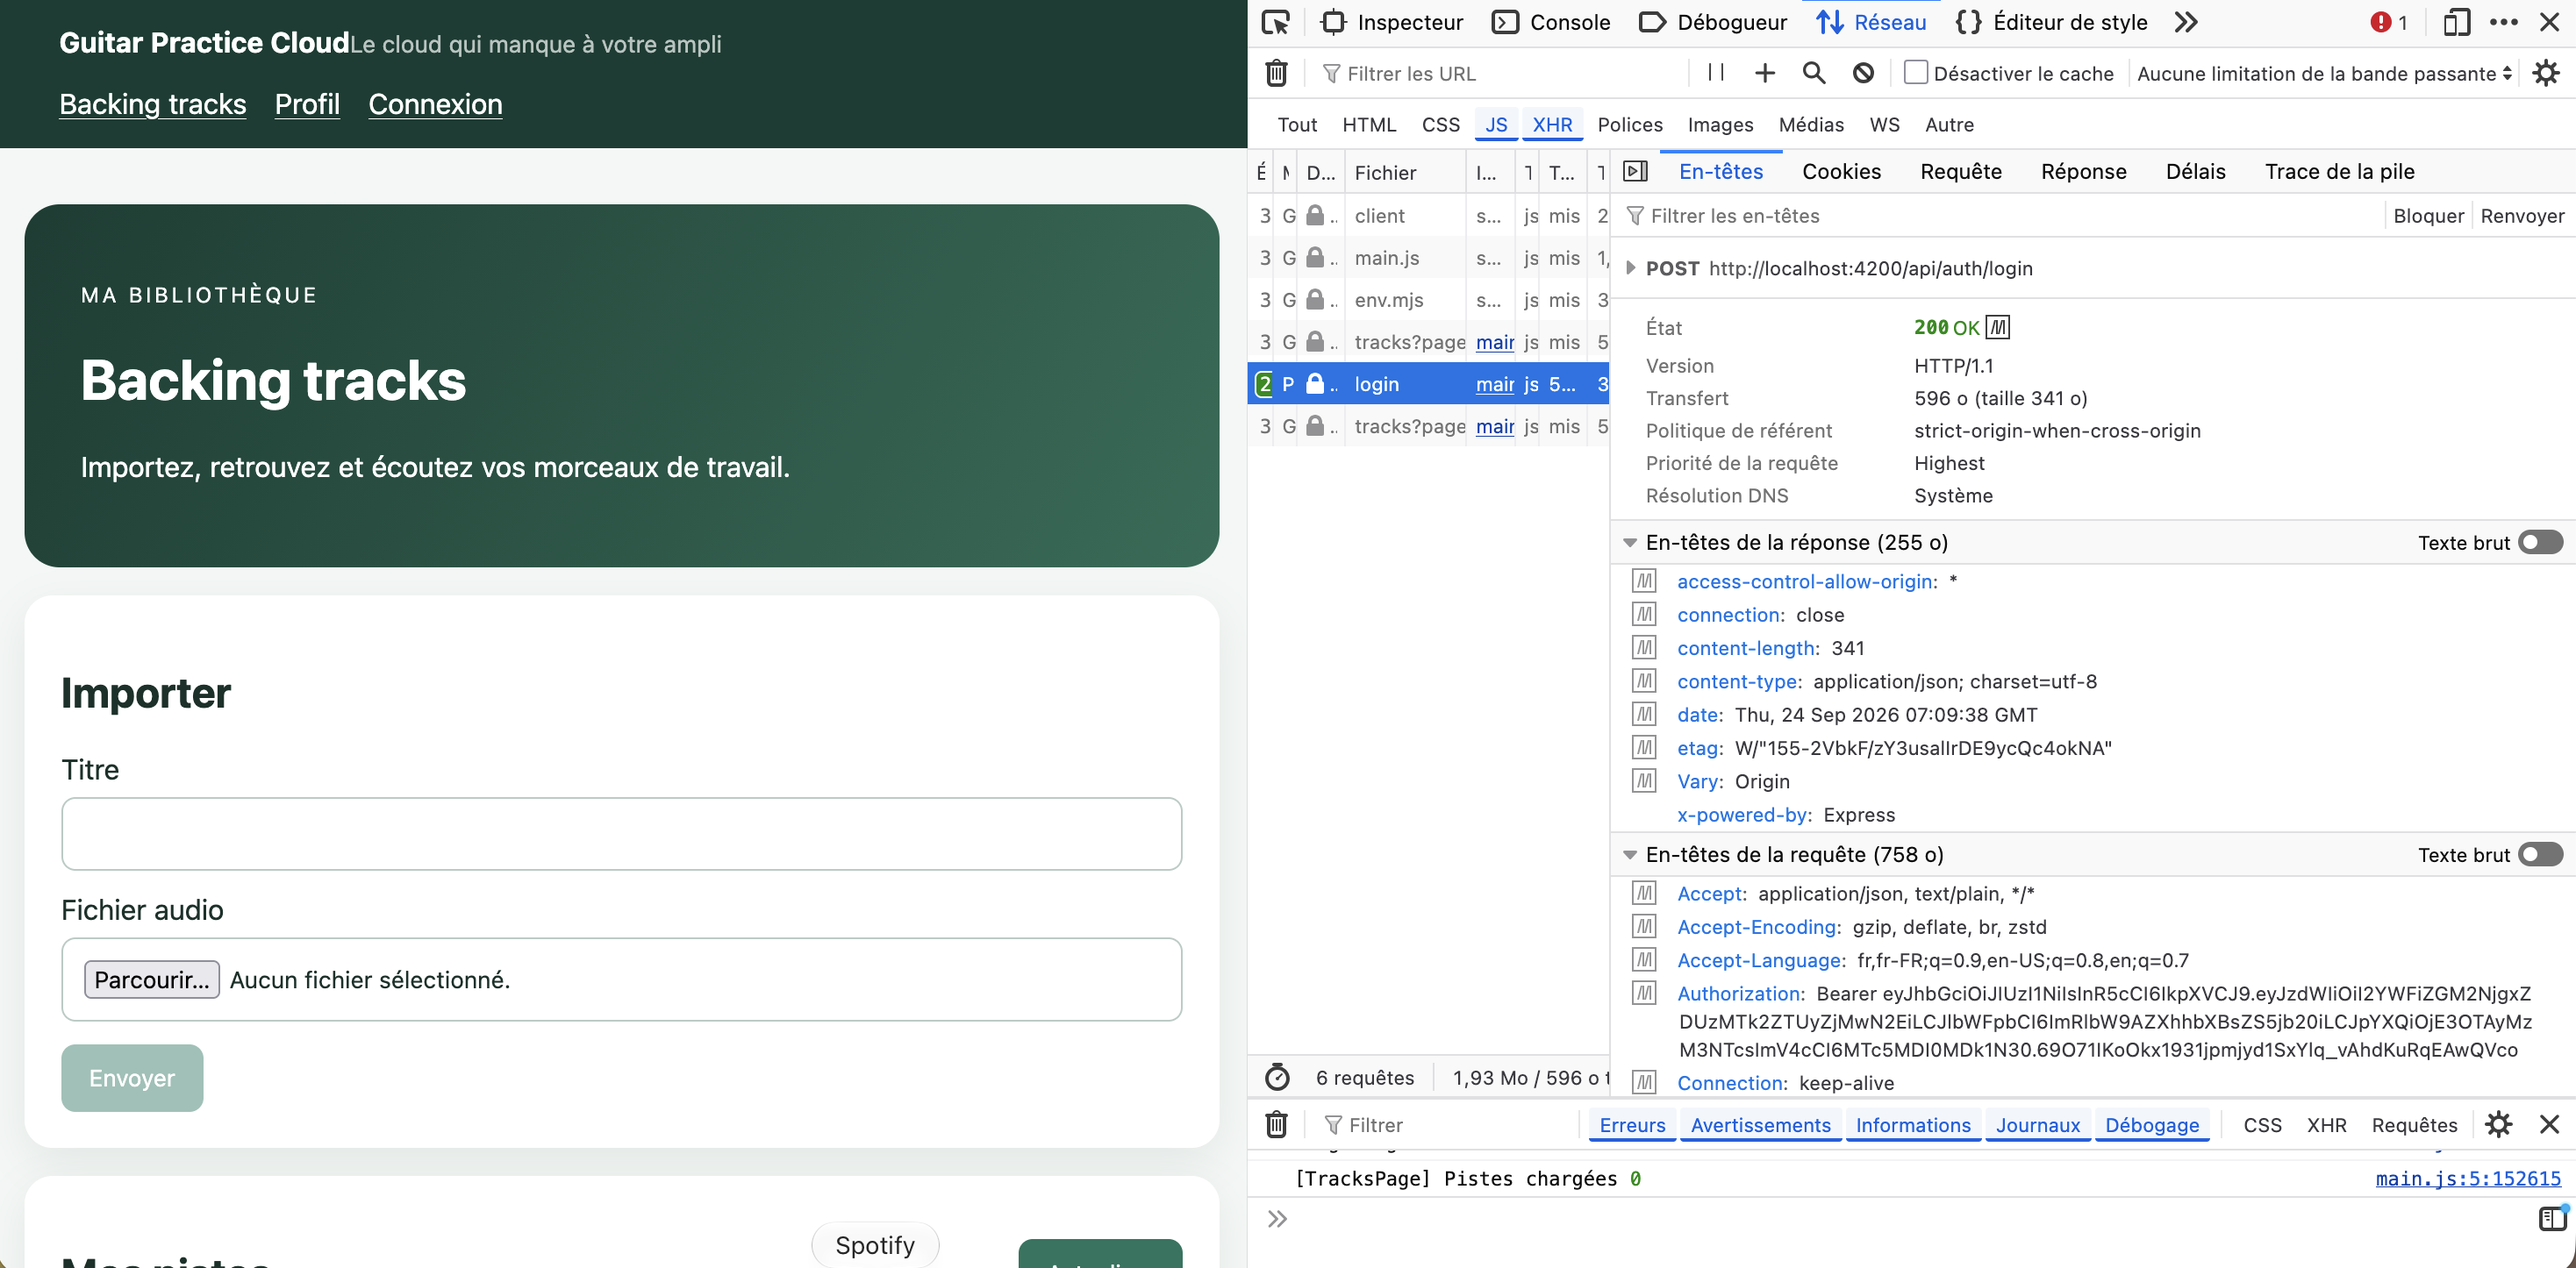
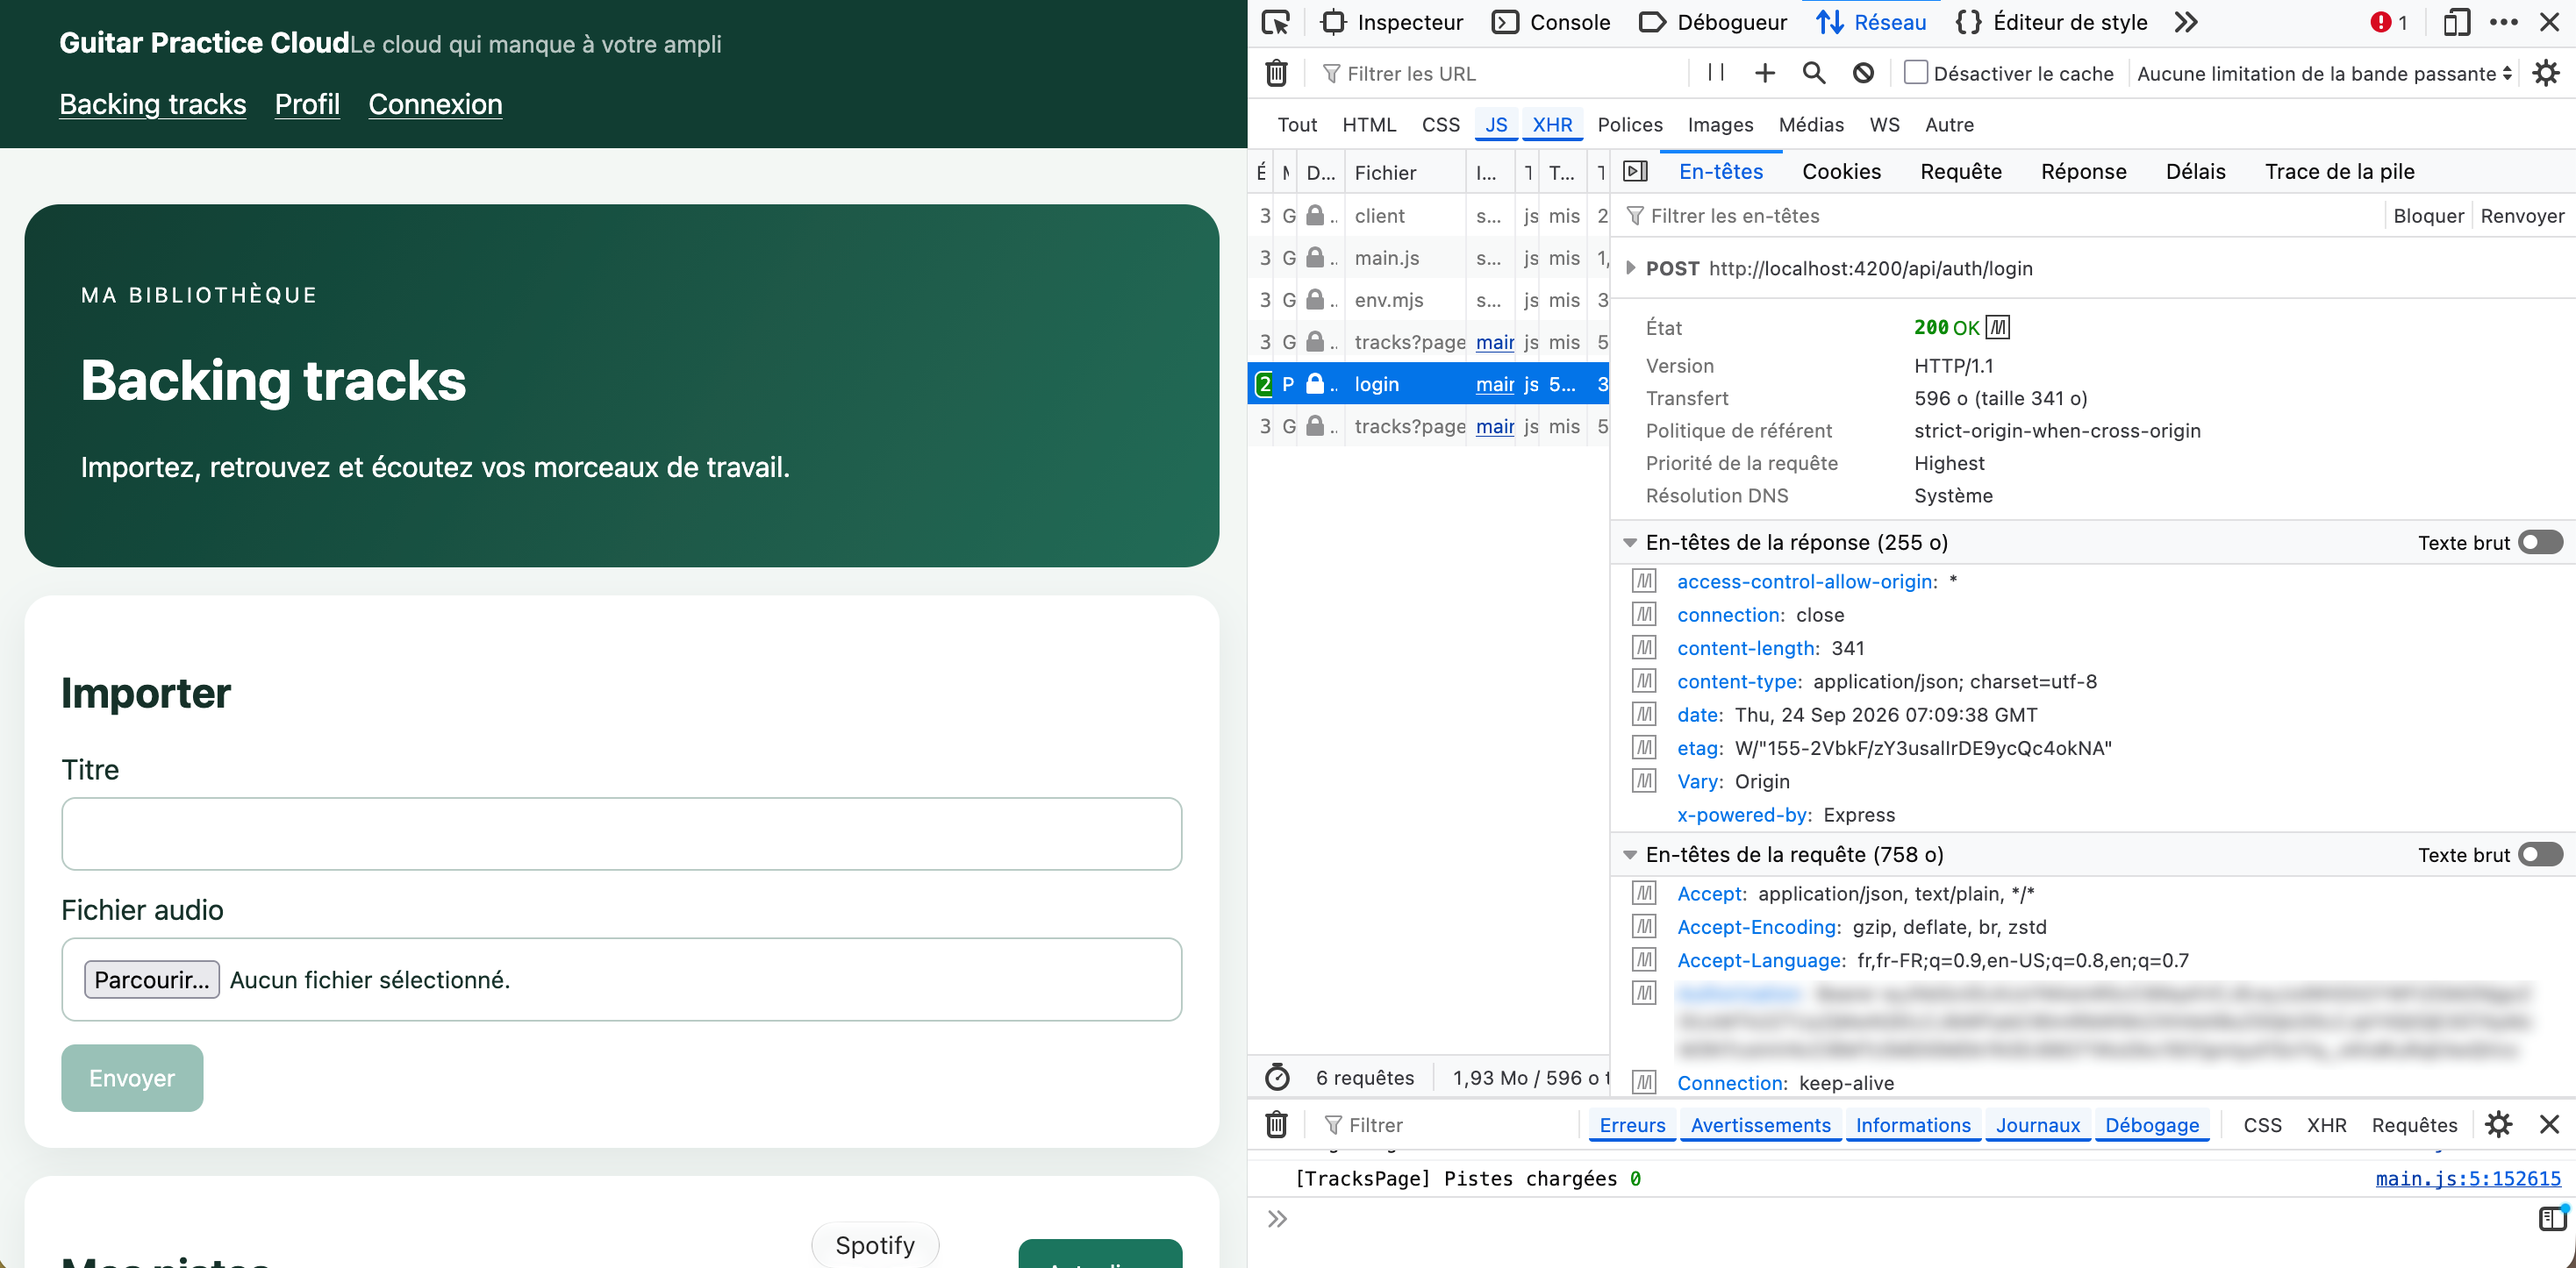
tp1-mission1: add 401 handling and logout button; docs: complete Mission 1 AI report

diff --git a/frontend-starter/src/app/components/app/app.ts b/frontend-starter/src/app/components/app/app.ts
@@ -1,10 +1,38 @@
-import { Component } from '@angular/core';
-import { RouterLink, RouterOutlet } from '@angular/router';
+import { Component, inject, OnInit } from '@angular/core';
+import { Router, RouterLink, RouterOutlet } from '@angular/router';
+import { AuthService } from '../../shared/services/auth.service';
+
+//composant racine: affiche le header (avec état de connexion) et la page active grace à router-outlet
 
 @Component({
+
   selector: 'app-root',
   imports: [RouterLink, RouterOutlet],
   templateUrl: './app.html',
   styleUrl: './app.css',
+  
 })
-export class AppComponent {}
+
+export class AppComponent implements OnInit {
+
+  readonly auth = inject(AuthService);
+  private readonly router = inject(Router);
+
+  //au démarrage de l'app si un token existe déjà (localStorage) mais que currentUser
+  //n'est pas encore chargé (ex: après un F5) on recharge le profil pour l'afficher.
+  
+  ngOnInit(): void {
+
+    if (this.auth.token() && !this.auth.currentUser()) {
+      this.auth.profile().subscribe({ error: () => this.auth.logout() });
+    }
+
+  }
+
+  logout(): void {
+
+    this.auth.logout();
+    void this.router.navigateByUrl('/login');
+  }
+
+}

diff --git a/frontend-starter/src/app/components/app/app.html b/frontend-starter/src/app/components/app/app.html
@@ -6,7 +6,18 @@
   <nav aria-label="Navigation principale">
     <a routerLink="/tracks">Backing tracks</a>
     <a routerLink="/profile">Profil</a>
-    <a routerLink="/login">Connexion</a>
+
+   <!-- basé sur le token (dispo direct) pas currentUser (dispo seulement après l'appel de profile()) -->
+    
+   @if (auth.token()) {
+
+      <button type="button" (click)="logout()">Déconnexion</button>
+    } 
+    
+    @else {
+      <a routerLink="/login">Connexion</a>
+    }
+    
   </nav>
 </header>
 

diff --git a/RAPPORT_IA_MODELE.md b/RAPPORT_IA_MODELE.md
@@ -27,3 +27,59 @@ On sait maintenant expliquer : où se trouve quoi dans le projet Angular, et le 
 
 ## Mission 1 — Connexion et profil
 
+La majorité du code était déjà là grâce au starter. On a comparé chaque point de la checklist du sujet avec le code existant pour voir ce qui manquait vraiment.
+
+Deux choses manquaient. D'abord la gestion du 401 : si le token expire ou devient invalide, rien ne redirigeait vers /login. On a codé ça dans l'intercepteur, avec un catchError qui détecte le statut 401 et déclenche la déconnexion + la redirection.
+
+Ensuite, en testant l'appli à la main, on s'est rendu compte qu'il n'y avait pas de bouton de déconnexion dans le header, alors que la fonction logout() existait déjà dans le service. On l'a ajouté dans app.ts et app.html.
+
+On a ensuite testé un par un tous les points du sujet et pris les différentes captures d'écran aux étapes de test.
+
+Formulaires et validations : testé avec un formulaire vide sur /register, le message "Nom, email et mot de passe de 8 caractères requis" s'affiche correctement.
+
+#### Test de création avec formulaire vide 
+![Validation formulaire](./docs/register-error.png)
+
+Connexion refusée : testé avec un mauvais mot de passe, message "Identifiants incorrects" affiché et requête en 401 dans Network.
+
+#### Connexion avec un mauvais mot de passe
+![Connexion refusée](./docs/login-error.png)
+
+Token jamais loggé : vérifié la console après connexion, rien qui affiche le token en clair.
+
+#### Vérification qu'aucun token n'apparaît dans la console
+![Console sans token](./docs/console-no-token.png)
+
+Chargement du profil : la requête GET /api/users/me renvoie les données et elles s'affichent correctement sur la page.
+
+#### Chargement du profil utilisateur
+![Chargement profil](./docs/profile-load.png)
+
+Modification du nom : la requête PUT /api/users/me passe bien et le nouveau nom s'affiche immédiatement.
+
+#### Modification et enregistrement du nom
+![Modification du nom](./docs/profile-update.png)
+
+Déconnexion : en testant, on a découvert que le bouton n'existait pas du tout dans le header. Une fois ajouté, on a aussi remarqué qu'après un F5 on avait l'air déconnecté alors que le token était toujours valide. Corrigé en basant l'affichage sur le token plutôt que sur l'objet utilisateur complet.
+
+#### Ajout du bouton de déconnexion (manquant à l'origine)
+![Bouton déconnexion visible](./docs/logout-1-avant.png)
+
+Une fois le bouton testé, la redirection vers /login fonctionne et le token disparaît bien du localStorage.
+
+#### Déconnexion effective (redirection + token supprimé)
+![Déconnexion effective](./docs/logout-preuve.png)
+
+Gestion du 401 : en cassant volontairement le token dans le localStorage puis en rechargeant la page, la requête vers /api/users/me échoue en 401 et l'application redirige automatiquement vers /login.
+
+#### Token invalide : détection du 401 et redirection automatique
+![Gestion du 401](./docs/401-handling.png)
+
+ Détail intéressant appris à cette dernière étape : modifier le token directement dans le localStorage ne suffit pas, rien ne se passe tant qu'on ne recharge pas la page. 
+ Le Signal qui garde le token en mémoire ne se relit pas tout seul quand localStorage change pendant que l'app tourne.
+
+Ça amène justement à la différence entre les deux : un Signal est réactif, dès qu'il change l'interface se met à jour toute seule, mais il est perdu à chaque rechargement de page. 
+
+Le localStorage lui persiste sur le disque et survit au refresh, mais rien ne prévient l'application quand sa valeur change. Le token utilise les deux en même temps, pour combiner les deux avantages.
+
+On a utilisé un assistant IA notamment pour mettre en forme ce rapport et pour la rédaction initiale du catchError dans l'intercepteur, qu'on a ensuite adapté et testé nous-mêmes.
